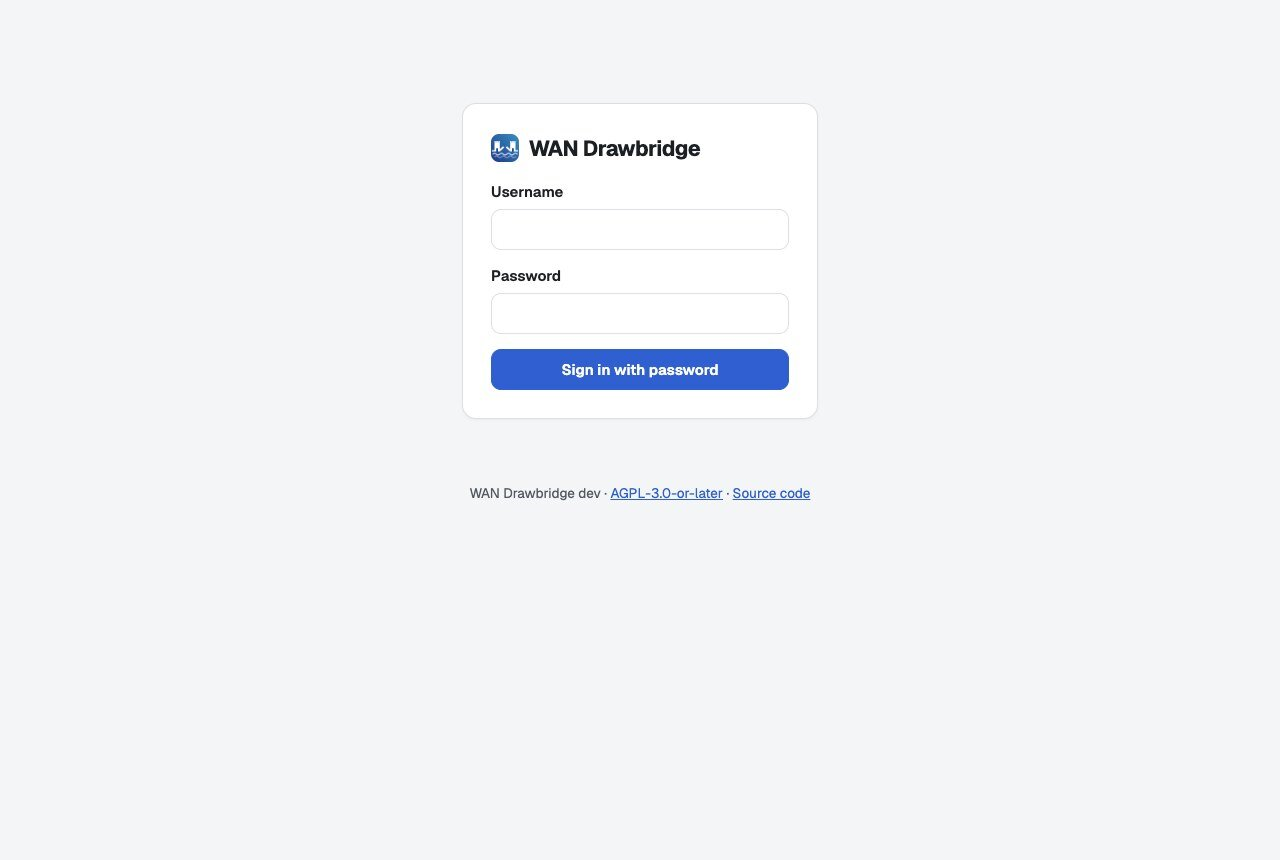
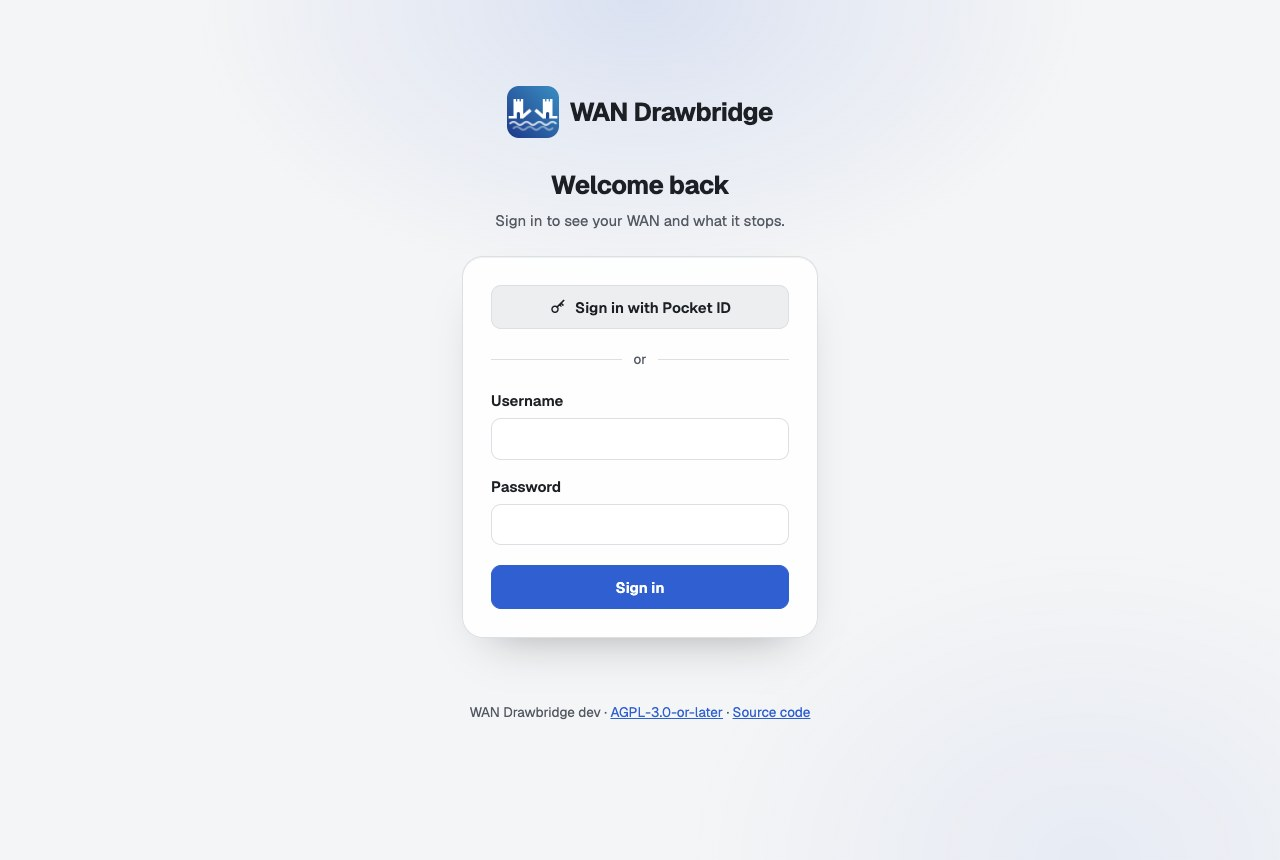
Restyle the sign-in page to match the refreshed UI, as in Eyrie.

diff --git a/internal/web/static/app.css b/internal/web/static/app.css
@@ -198,7 +198,7 @@ time { white-space: nowrap; }
 .more summary::-webkit-details-marker { display: none; }
 .page { flex: 1; min-width: 0; display: flex; flex-direction: column; }
 main { width: 100%; max-width: 1180px; margin: 0 auto; padding: 1.75rem 2rem 1rem; flex: 1; }
-main.narrow { max-width: 420px; padding-top: 12vh; }
+main.narrow { max-width: 420px; padding-top: 10vh; }
 main.wide { max-width: 1520px; } /* the ISPs table has many columns */
 
 .usermenu { position: relative; margin-top: auto; padding-top: 0.75rem; border-top: 1px solid var(--border); }
@@ -444,9 +444,38 @@ code { font-size: 0.85em; background: var(--surface-2); padding: 0.1rem 0.35rem;
 .or::before, .or::after { content: ""; flex: 1; border-top: 1px solid var(--border); }
 
 /* Wizard and sign-in */
-.auth-card { padding: 1.75rem; }
-.auth-card h1 { display: flex; align-items: center; gap: 0.6rem; font-size: 1.35rem; }
-.auth-card h1 img { border-radius: 8px; }
+/* Signed out, the page sits over a soft glow in the accent colour. */
+main.narrow { position: relative; isolation: isolate; }
+main.narrow::before {
+  content: ""; position: fixed; inset: 0; z-index: -1; pointer-events: none;
+  background:
+    radial-gradient(40rem 26rem at 50% 0%, color-mix(in srgb, var(--accent) 13%, transparent), transparent 70%),
+    radial-gradient(36rem 28rem at 85% 100%, color-mix(in srgb, var(--accent) 7%, transparent), transparent 70%);
+}
+.auth { width: 100%; }
+.auth-brand {
+  display: flex; align-items: center; justify-content: center; gap: 0.65rem; margin-bottom: 1.75rem;
+  font-size: 1.6rem; font-weight: 700; letter-spacing: -0.02em;
+}
+.auth-brand img { border-radius: 12px; }
+.auth h1 { margin: 0; text-align: center; font-size: 1.6rem; letter-spacing: -0.02em; }
+.auth .lead { margin: 0.35rem 0 1.5rem; text-align: center; color: var(--muted); }
+.auth-card {
+  padding: 1.75rem; border-radius: calc(var(--radius) * 1.5);
+  background: color-mix(in srgb, var(--surface) 88%, transparent);
+  box-shadow: 0 1px 0 color-mix(in srgb, var(--text) 6%, transparent) inset, 0 24px 48px -28px rgb(0 0 0 / 0.35);
+  backdrop-filter: blur(12px);
+}
+.auth-card .stack { gap: 1rem; }
+.auth-card input:not([type="checkbox"]) { min-height: 2.75rem; }
+.auth-card .wide { display: flex; align-items: center; justify-content: center; gap: 0.5rem; width: 100%; min-height: 2.75rem; font-weight: 600; }
+.auth-card .wide .icon { width: 18px; height: 18px; }
+.auth-card .stack .wide { margin-top: 0.25rem; }
+.auth-card .or { margin: 1.25rem 0; }
+.auth-card .code { text-align: center; font-family: "Geist Mono", ui-monospace, monospace; font-size: 1.25rem; letter-spacing: 0.3em; }
+.auth-card .quiet { justify-self: center; color: var(--muted); text-decoration: none; font-size: 0.9rem; }
+.auth-card .quiet:hover { color: var(--text); }
+@media (max-width: 30rem) { .auth-card { padding: 1.25rem; } main.narrow { padding-top: 6vh; } }
 .wizard { max-width: 860px; margin: 0 auto; }
 .wizard .divided { margin-top: 1.5rem; padding-top: 1.25rem; border-top: 1px solid var(--border); }
 .steps { list-style: none; padding: 0; margin: 0 0 1rem; display: flex; gap: 0.4rem; flex-wrap: wrap; counter-reset: step; }

diff --git a/internal/web/templates/login.html b/internal/web/templates/login.html
@@ -1,28 +1,36 @@
 {{define "content"}}
-<div class="auth-card card">
-  <h1><img src="{{static "icon.png"}}" alt="" width="28" height="28"> WAN Drawbridge</h1>
-  {{with .Data.Error}}<div class="banner bad">{{.}}</div>{{end}}
+<div class="auth">
+  <div class="auth-brand"><img src="{{static "icon.png"}}" alt="" width="52" height="52"><span>WAN Drawbridge</span></div>
+  {{if .Data.Code}}
+  <h1>Two-factor sign-in</h1>
+  <p class="lead">Enter the code from your authenticator app, or one of your recovery codes.</p>
+  {{else}}
+  <h1>Welcome back</h1>
+  <p class="lead">Sign in to see your WAN and what it stops.</p>
+  {{end}}
+  <div class="auth-card card">
+  {{with .Data.Error}}<div class="banner bad" role="alert">{{.}}</div>{{end}}
   {{if .Data.Code}}
   <form method="post" action="/login/code" class="stack">
-    <label>Code from your authenticator app
-      <input name="code" inputmode="numeric" autocomplete="one-time-code" autofocus required>
-      <small>Or one of your recovery codes.</small></label>
-    <button type="submit">Sign in</button>
+    <label>Code
+      <input class="code" name="code" inputmode="numeric" autocomplete="one-time-code" autofocus required></label>
+    <button type="submit" class="wide">Sign in</button>
+    <a class="quiet" href="/login">Back</a>
   </form>
-  <p class="hint"><a href="/login">Start again</a></p>
   {{else}}
   {{if .Data.SSO}}
-  <a class="button block" href="/auth/oidc/login?next={{query .Data.Next}}">Sign in with {{.Data.SSOName}}</a>
+  <a class="button wide{{if .Data.Local}} secondary{{end}}" href="/auth/oidc/login?next={{query .Data.Next}}">{{template "icon" "key"}}Sign in with {{.Data.SSOName}}</a>
   {{end}}
   {{if and .Data.SSO .Data.Local}}<p class="or"><span>or</span></p>{{end}}
   {{if .Data.Local}}
   <form method="post" action="/login" class="stack">
     <input type="hidden" name="next" value="{{.Data.Next}}">
-    <label>Username <input name="username" value="{{.Data.Username}}" autocomplete="username" {{if not .Data.SSO}}autofocus{{end}} required></label>
-    <label>Password <input name="password" type="password" autocomplete="current-password" required></label>
-    <button type="submit" {{if .Data.SSO}}class="secondary"{{end}}>Sign in with password</button>
+    <label>Username <input name="username" value="{{.Data.Username}}" autocomplete="username" {{if and (not .Data.SSO) (not .Data.Username)}}autofocus{{end}} required></label>
+    <label>Password <input name="password" type="password" autocomplete="current-password" {{if .Data.Username}}autofocus{{end}} required></label>
+    <button type="submit" class="wide">Sign in</button>
   </form>
   {{end}}
   {{end}}
+  </div>
 </div>
 {{end}}

diff --git a/internal/web/templates/layout.html b/internal/web/templates/layout.html
@@ -105,6 +105,7 @@
 {{- else if eq . "reports"}}<path d="M5 20V11M11 20V4M17 20v-6M3 20h18"/>
 {{- else if eq . "settings"}}<path d="M4 6h9M17 6h3M4 12h3M11 12h9M4 18h11M19 18h1"/><circle cx="15" cy="6" r="2"/><circle cx="9" cy="12" r="2"/><circle cx="17" cy="18" r="2"/>
 {{- else if eq . "search"}}<circle cx="11" cy="11" r="7"/><path d="m20 20-3.5-3.5"/>
+{{- else if eq . "key"}}<circle cx="8" cy="15" r="4"/><path d="M10.8 12.2 20 3M16 7l3 3M14 9l2 2"/>
 {{- else if eq . "more"}}<circle cx="5" cy="12" r="1.5"/><circle cx="12" cy="12" r="1.5"/><circle cx="19" cy="12" r="1.5"/>
 {{- end}}</svg>{{end}}
 

diff --git a/docs/user/web-ui.md b/docs/user/web-ui.md
@@ -447,8 +447,8 @@ To turn it on, in **Settings → Your account → Two-factor sign-in**:
 3. Save the 10 **recovery codes** shown, somewhere other than your phone.
    They are shown once. Each works once instead of an app code.
 
-From then on, signing in with your password opens a second step, **Code from
-your authenticator app**:
+From then on, signing in with your password opens a second step, **Two-factor
+sign-in**, which asks for a code:
 
 - The code has 6 digits and changes every 30 seconds. The code before and the
   code after the current one are also accepted, for a clock that is slightly
